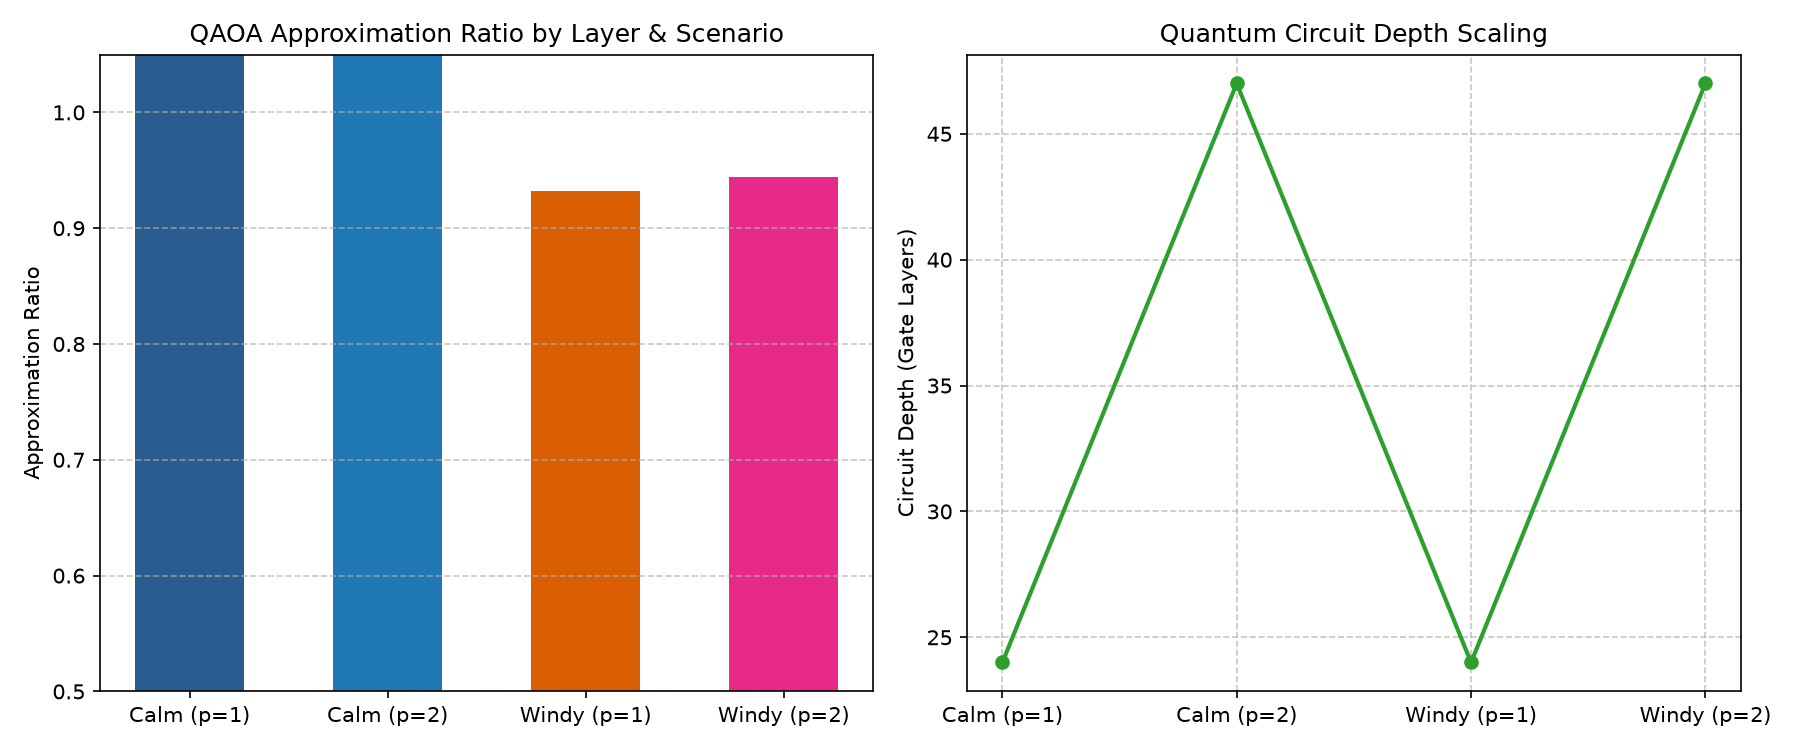
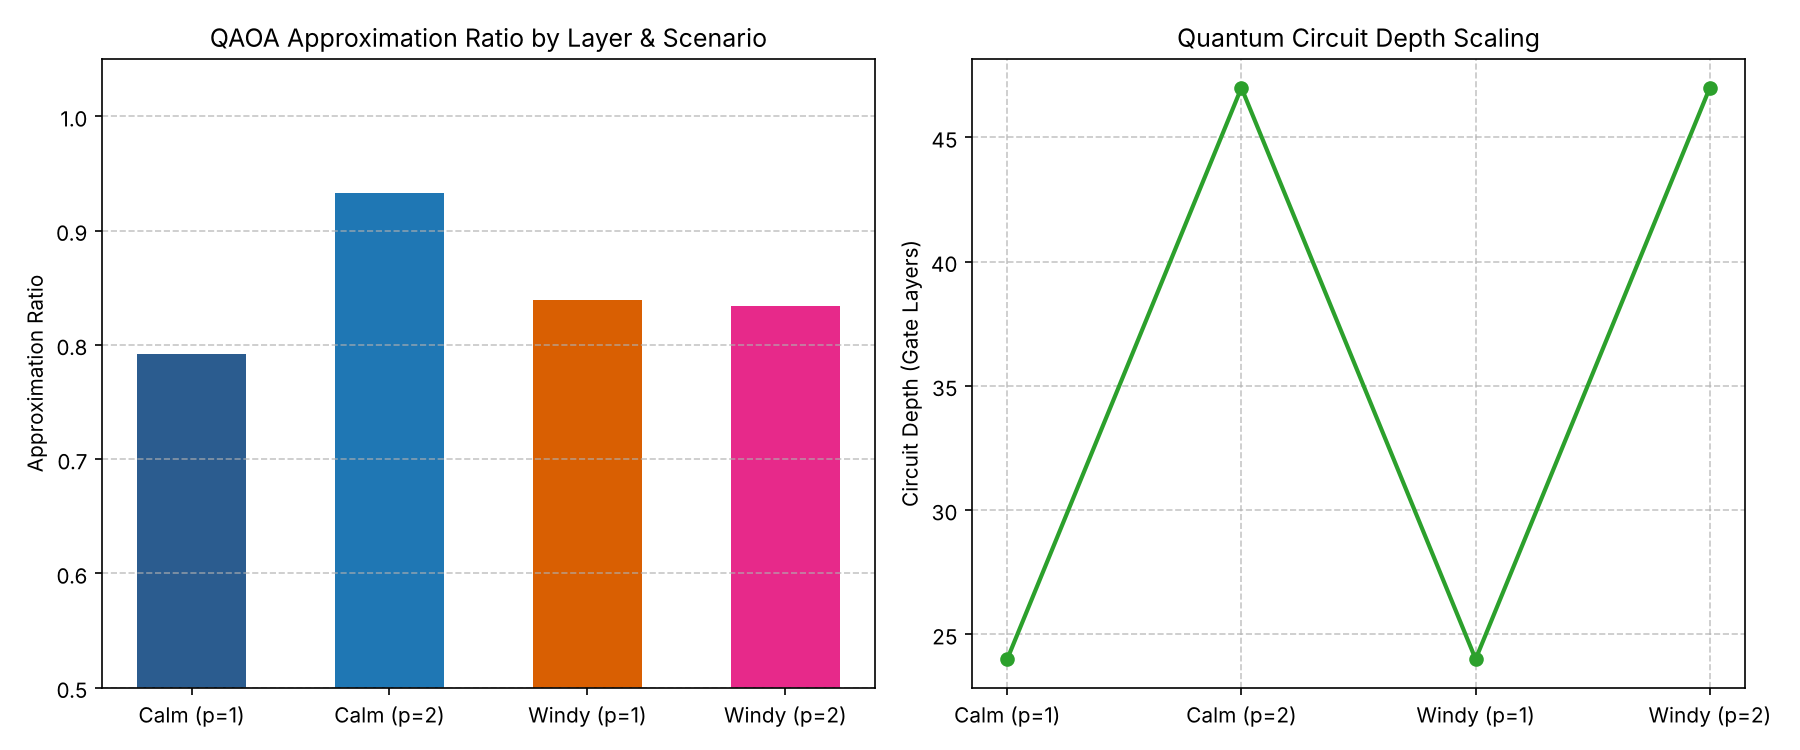
Measure ground-state overlap over all optimal states, regenerate results, add fix notes
Claude-Session: https://claude.ai/code/session_01XN7r5XhCW8wuNSZCwLEfaE

diff --git a/scripts/run_qaoa_benchmark.py b/scripts/run_qaoa_benchmark.py
@@ -20,6 +20,7 @@ import matplotlib.pyplot as plt
 sys.path.insert(0, os.path.abspath(os.path.join(os.path.dirname(__file__), "..", "src")))
 
 import dimod
+from qiskit.quantum_info import Statevector
 from tug_optimizer import (
     Ship,
     Tug,
@@ -71,6 +72,13 @@ def run_benchmark():
         max_energy = classical_res.data_vectors['energy'].max()
         min_energy = ground_truth_energy
 
+        # QUBO energy of every basis state, in Qiskit index order (variable i = bit i)
+        Q, q_offset = optimizer.to_qubo_matrix()
+        n = optimizer.num_variables
+        idx = np.arange(1 << n)
+        X = ((idx[:, None] >> np.arange(n)) & 1).astype(np.float64)
+        all_energies = np.einsum("ki,ij,kj->k", X, Q, X) + q_offset
+
         print(f"  Classical Optimal Energy: {ground_truth_energy:.1f}")
         print(f"  Classical Accepted Spot Ships: {optimizer.decode_solution(ground_truth_sample)['accepted_spot_ships']}")
 
@@ -95,10 +103,10 @@ def run_benchmark():
             samples = sim.sample_probabilities(opt_params, top_k=10, apply_qec=False)
 
             # Check ground state overlap
-            ground_truth_prob = 0.0
-            for bitstr, prob, energy, decoded in samples:
-                if abs(energy - ground_truth_energy) < 1e-4:
-                    ground_truth_prob += prob
+            # Sum over ALL optimal bitstrings: the optimum is degenerate (tugs are interchangeable),
+            # so no single bitstring need appear in the top samples
+            probs = Statevector.from_instruction(sim.bind_parameters(opt_params)).probabilities()
+            ground_truth_prob = float(probs[all_energies <= ground_truth_energy + 1e-4].sum())
 
             approx_ratio = (max_energy - raw_exp_energy) / (max_energy - min_energy) if max_energy != min_energy else 1.0
 
@@ -106,7 +114,7 @@ def run_benchmark():
             print(f"  Optimal Parameters (gamma, beta): {np.round(opt_params, 4)}")
             print(f"  Expected QUBO Energy: {raw_exp_energy:.1f}")
             print(f"  Approximation Ratio: {approx_ratio:.4f}")
-            print(f"  Ground State Overlap (Top samples): {ground_truth_prob * 100:.3f}%")
+            print(f"  Ground State Overlap (all optimal states): {ground_truth_prob * 100:.3f}%")
             print(f"  Optimization Runtime: {elapsed:.2f}s")
 
             results.append({

diff --git a/docs/FIXES_2026-10-17.md b/docs/FIXES_2026-10-17.md
@@ -1,0 +1,90 @@
+# Quantum pipeline fixes (2026-10-17)
+
+Follows the code review of commit `0bfe473`. Each fix lists cause, change and evidence.
+Baseline is `main` at `ab551bb`. All runs: Python 3.13, qiskit 2.6.0, qiskit-ibm-runtime 0.50.0,
+qiskit-aer, dimod 0.12.22, on Linux.
+
+## Before / after, 4 tugs, wind 12 kn (`scripts/run_quantum_optimizer.py --tugs 4 --wind 12`)
+
+| | Best answer reported | Energy | True optimum |
+|---|---|---|---|
+| Before | 1 tug on the contract container, both spot ships rejected | +500 | −9,000 |
+| After | contract container + both spot ships, 3 tugs | −9,000 | −9,000 |
+| After, `--no-qec` | same | −9,000 | −9,000 |
+
+Wind 22 kn finds the optimum (+1,500, spot ships rejected) both before and after.
+
+## 1. IBM hardware path crashed (`scripts/run_quantum_optimizer.py`)
+
+Cause, found by running the branch against `FakeBrisbane` (127-qubit IBM noise model):
+- `channel="ibm_quantum"`: `ValueError: 'channel' can only be 'ibm_cloud', or 'ibm_quantum_platform'`.
+- Circuit had no measurements: `AttributeError: 'DataBin' object has no attribute 'meas'`.
+- `sampler.options.resilience_level` exists only on EstimatorV2: `ValidationError ... no attribute 'resilience_level'`.
+- Angle binding hard-coded p=1.
+
+Change: `channel="ibm_quantum_platform"`; `bound_qc.measure_all()`; dynamical decoupling plus gate
+and measurement twirling instead of `resilience_level`; `QAOASimulator.bind_parameters()` binds any p;
+new `--p` flag.
+
+Evidence: the real `solve_tug_scheduling_quantum(..., ibm_token=...)` was run with
+`QiskitRuntimeService` stubbed to return `FakeBrisbane`. It completes for T=2 (10 qubits,
+transpiled depth 219) and T=3 (14 qubits, depth 351) and returns the optimum (−4,500 and −9,000).
+Not yet run on a real IBM QPU (needs a token).
+
+## 2. Answer taken from the most frequent bitstrings (`qaoa_mapper.py`, `run_quantum_optimizer.py`)
+
+Cause: the script kept the 10 most likely bitstrings. The optimum is spread over many equivalent
+bitstrings (tugs are interchangeable), so it rarely appears among them.
+
+Change: new `rank_samples_by_energy()` scores every measured bitstring by QUBO energy and returns
+lowest first. Hardware and local runs both use it; the local run now draws shots from the
+statevector (`QAOASimulator.sample_counts`) so it behaves like hardware.
+
+## 3. QEC syndrome check flagged valid answers (`error_mitigation.py`)
+
+Cause: `sum(... for s in self.tugs)` iterated tugs as `s` with a stale `t`, so per-ship tug counts
+were wrong; the exact optimum was reported as `phantom_spot_error` and `unmet_contract_error`.
+Repair also never removed surplus tugs from a contract ship, and repaired results were not re-ranked.
+
+Change: iterate `for t in self.tugs`; release surplus contract tugs; sort results by energy.
+
+## 4. Benchmark energy and overlap were wrong (`scripts/run_qaoa_benchmark.py`, `results/`)
+
+Cause: `(value − sim.offset) × norm + bqm.offset` dropped the Ising constant, giving expected
+energies below the ground state (approximation ratio 1.19, impossible). "Ground state overlap" only
+looked at the top 10 bitstrings after QEC repair.
+
+Change: `raw = value × norm_factor`; overlap is now the total probability on all optimal states
+from the full statevector. `results/` regenerated.
+
+New results (approximation ratio, overlap with optimal states):
+
+| Scenario | p=1 | p=2 |
+|---|---|---|
+| Calm 10 kn | 0.79, 0.00% | 0.93, 3.06% |
+| Windy 22 kn | 0.84, 0.00% | 0.83, 0.00% |
+
+Calm p=1 is low because COBYLA from the benchmark's fixed seed (123) lands in a poor local
+minimum; seeds 1-3 with 60 iterations reach 3.0% (see penalty sweep below). Multi-start was not added.
+
+## 5. Penalty weights (`qubo_builder.py`)
+
+Cause: fixed penalties of 15k-40k against a tug cost of 500 mean the cost signal is under 1% of the
+Hamiltonian scale after normalisation.
+
+Change: penalties left unset default to 2 × (largest spot revenue + largest tug cost), 12,000 for
+the demo instance. Explicit values still override.
+
+Evidence (penalty sweep, 150 random instances, 1-4 tugs, 2-3 ships, mixed wind and crew rest,
+both pre-filter modes):
+- Exact QUBO minimum equals the true constrained optimum in all 150 with the new default.
+  A flat 7,000 failed 3, so the safety factor matters.
+- Normalisation factor 75,250 → 33,250. QAOA p=1 P(optimal), T=4: calm 2.3% → 3.0%,
+  windy unchanged at 0.3%. A modest gain.
+- `scripts/test_qubo.py`: same energies and spot decisions in all 3 scenarios as before
+  (tug labels can differ, as tugs are interchangeable).
+
+## Not changed
+- QEC is still classical post-processing, not quantum error correction.
+- `ReadoutErrorMitigator` is still unused.
+- The model still has no time dimension.
